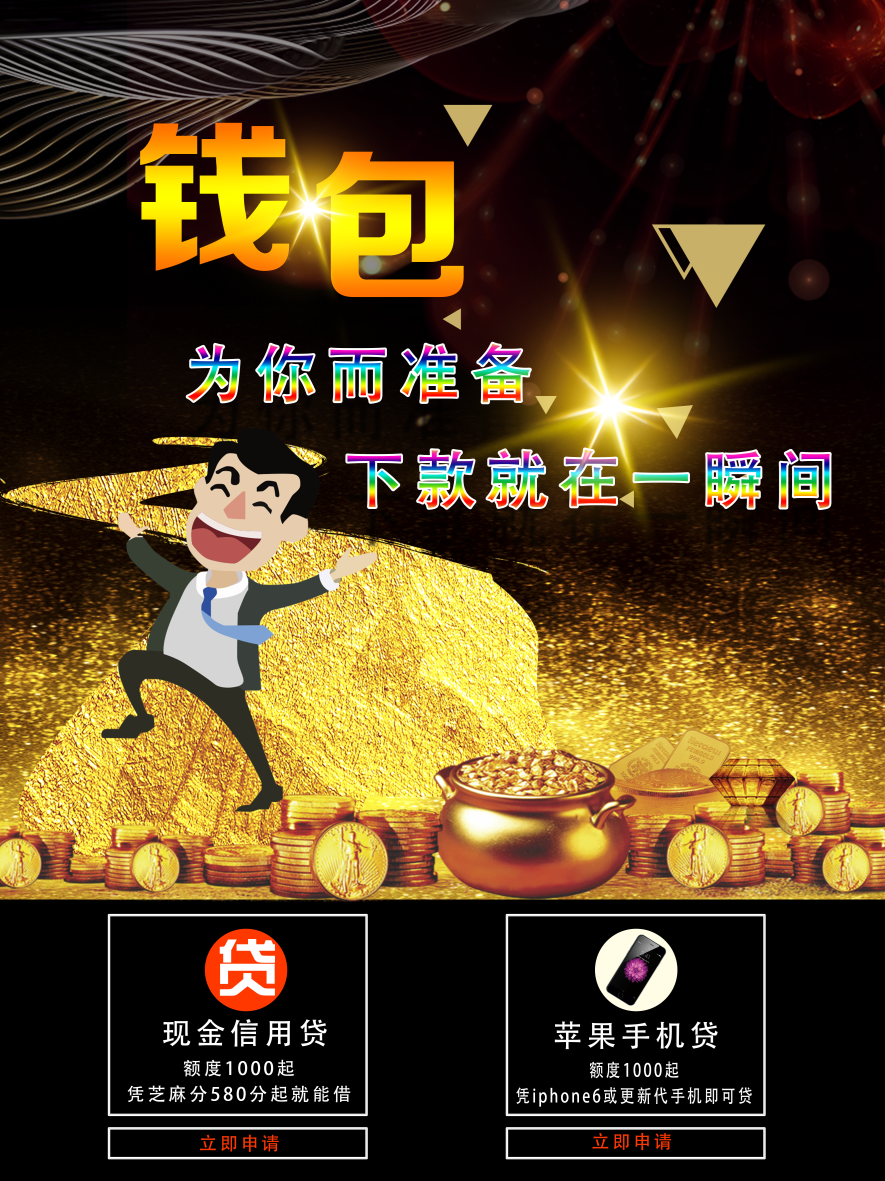
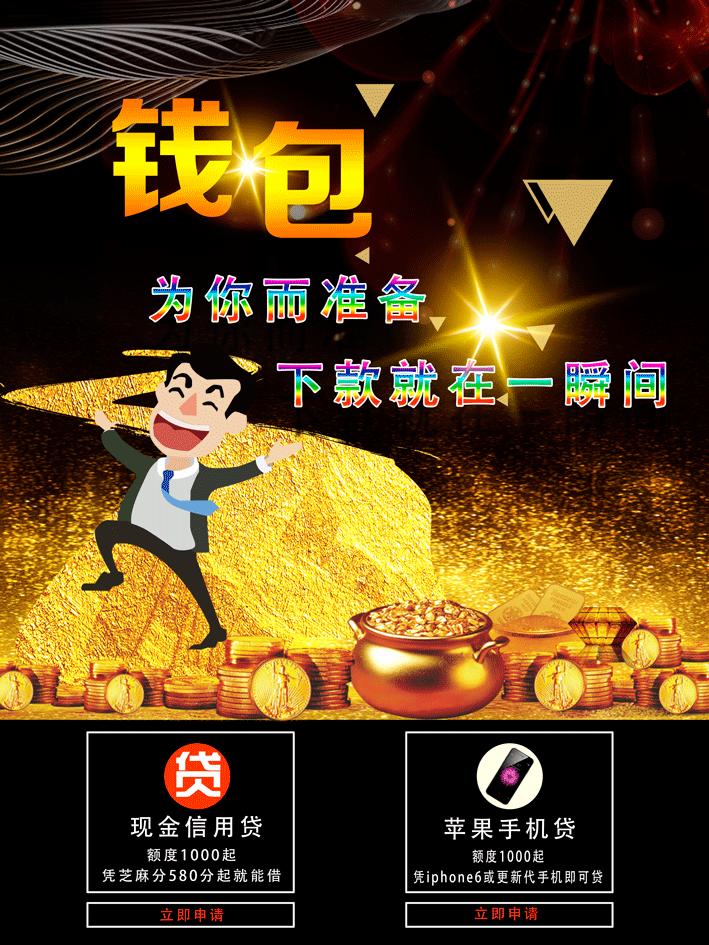
1

diff --git a/public/index.html b/public/index.html
@@ -4,47 +4,35 @@
     <meta charset="UTF-8">
     <meta name="viewport" content="width=device-width,initial-scale=1,user-scalable=0">
     <title>佰锐钱包，你的私人钱包</title>
+    <script type="text/javascript" src="/javascripts/jquery-3.2.1.min.js"></script>
     <style>
-        .sel_btn{
-            height: 21px;
-            line-height: 21px;
-            padding: 0 11px;
-            background:  rgba(247, 251, 0, 0.91);
-            border: 1px #ebfa02 solid;
-            border-radius: 3px;
-            /*color: #fff;*/
-            display: inline-block;
-            text-decoration: none;
-            font-size: 12px;
-            outline: none;
+        .bottom_footer {
+            position: fixed; /*or前面的是absolute就可以用*/
+            bottom: 0px;
         }
     </style>
 </head>
-<body  ontouchstart>
+<body   >
+<img id="backimage" src="images/11.png" height="100" width="100" />
 
-    <div style=" "  id="container" width="100%" height="100%">
-        <img style="width:100%; height:225px; background-size:100% 100%;background-repeat:no-repeat;" src="images/2.png"/>
 
-    </div>
-    <div style="width:100%; height:100px;  background-image:url('images/3.png'); background-repeat:no-repeat; background-size:100% 100%; ">
-        <div style="padding-left: 53px; padding-top: 25px;">
-             <label style="font-size:14px;font-weight:bold;margin-top: 3px; ">苹果手机贷 &nbsp;&nbsp;&nbsp;&nbsp;&nbsp;&nbsp;&nbsp;&nbsp;</label><a class="sel_btn" href="http://linzhirong.cn/first?type=1">立即申请</a><br>
-             <label style="font-size:8px; margin-top: 3px;">额度1000起</label><br>
-             <label style="font-size:8px; margin-top: 3px;">有Iphone6以上手机即可贷</label>
-         </div>
-    </div>
-
-    <div style="width:100%; height:100px;  background-image:url('images/3.png'); background-repeat:no-repeat; background-size:100% 100%; ">
-        <div  style="padding-left: 53px; padding-top: 25px;">
-            <label style="font-size:14px;font-weight:bold;margin-top: 3px; ">现金信用贷 &nbsp;&nbsp;&nbsp;&nbsp;&nbsp;&nbsp;&nbsp;&nbsp;</label><a class="sel_btn" href="http://linzhirong.cn/first?type=2">立即申请</a><br>
-            <label style="font-size:8px; margin-top: 3px;">额度1000起</label><br>
-            <label style="font-size:8px; margin-top: 3px;">有身份证/芝麻分550以上即可贷</label>
-        </div>
-    </div>
+<div class="bottom_footer" id="footer">
+    <div id="left" style="float:left ;  width:50%;  height:100%;" onclick="jump(1)"></div>
+    <div id="right" style="float:left ;  width:50%; height:100%;" onclick="jump(2)"></div>
+</div>
 
 
 
 </body>
 <script type="text/javascript">
+    var winHeight = document.documentElement.clientHeight;
+    var winWidth = document.documentElement.clientWidth;
+$('#backimage').css('height',winHeight);
+$('#backimage').css('width',winWidth);
+    $('#footer').css('height',winHeight/4);
+    $('#footer').css('width',winWidth);
+function jump(type){
+    window.location.href='http://linzhirong.cn/first?type='+type;
+}
 </script>
 </html>
